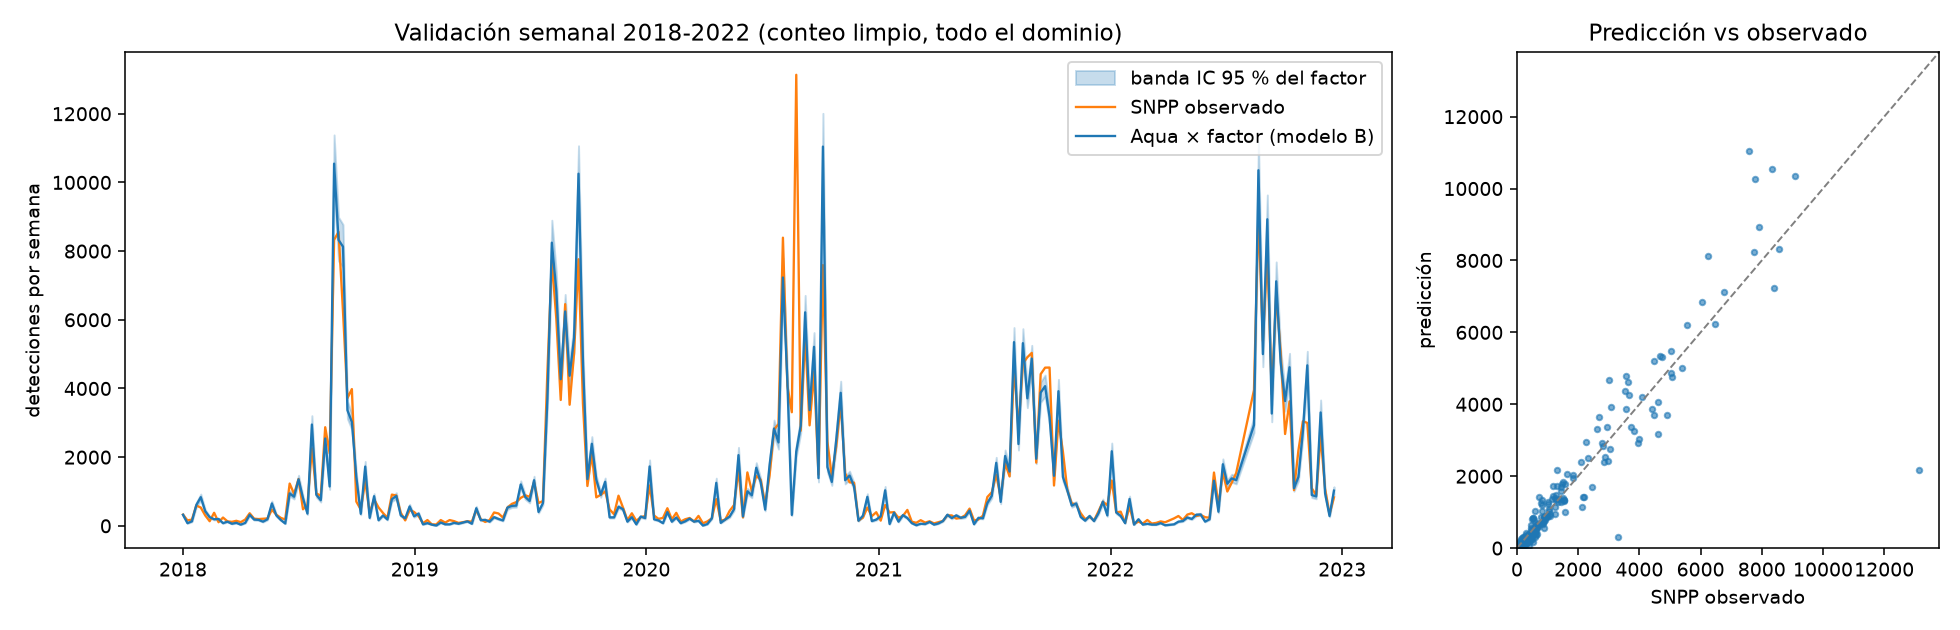
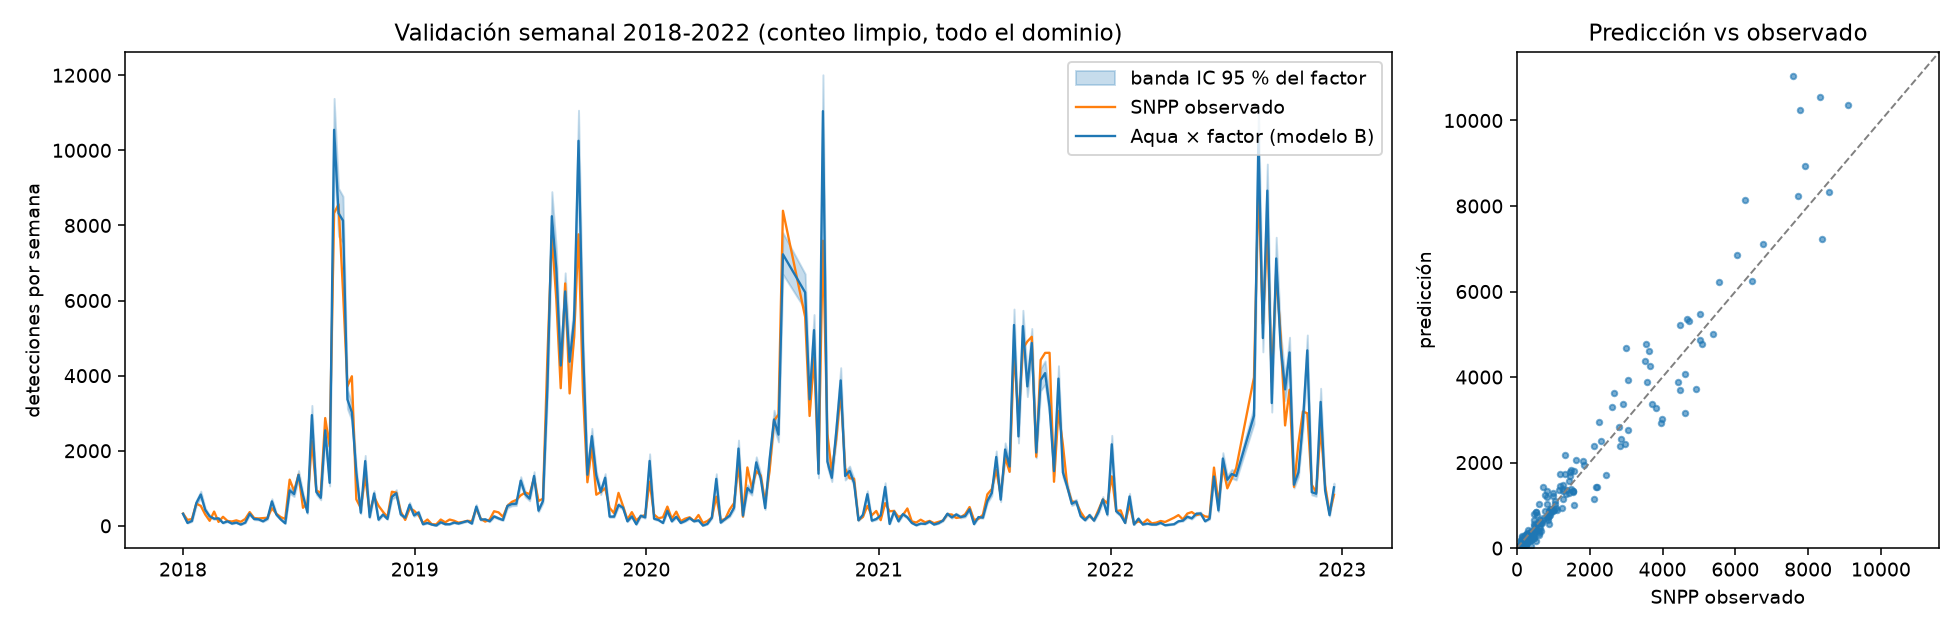
adding documentation

diff --git a/src/calibration.py b/src/calibration.py
@@ -18,6 +18,8 @@ El efecto fijo de semana absorbe la actividad real de fuego de cada semana; el c
       pocos días con detecciones porque no hay fuego, y filtrarlas sesgaría la razón.
     * VIIRS con days_with_data < MIN_TARGET_DAYS. VIIRS detecta algo en Perú casi todos los días,
       así que una semana incompleta es un apagón del satélite (p. ej. S-NPP jul-ago 2022).
+    * Semanas que se solapan con un apagón documentado de cualquiera de los dos sensores
+      (columna in_outage, definida en settings.yaml -> outages; p. ej. Aqua ago-sep 2020).
     * Semanas en que ambos sensores suman 0 (no aportan información sobre la razón).
 """
 
@@ -58,6 +60,10 @@ def paired_weeks(df_weekly: pd.DataFrame, years: list[int], metric: str,
     d = df_weekly[df_weekly["sensor"].isin([ref, target]) & df_weekly["iso_year"].isin(years)]
     min_days = d["sensor"].map({ref: 1, target: MIN_TARGET_DAYS})
     d = d[d["days_with_data"] >= min_days]
+    if "in_outage" in d.columns:
+        # Una semana con apagón documentado de cualquiera de los dos sensores se descarta entera.
+        bad_weeks = d.loc[d["in_outage"], "week"].unique()
+        d = d[~d["week"].isin(bad_weeks)]
     wide = d.pivot_table(index=["week", "iso_year", "month", "season"], columns="sensor",
                          values=metric, aggfunc="sum").dropna(subset=[ref, target])
     wide = wide.reset_index()

diff --git a/src/aggregate.py b/src/aggregate.py
@@ -11,7 +11,7 @@ from pathlib import Path
 
 import pandas as pd
 
-from config import SEASONS
+from config import OUTAGES, SEASONS
 from io_firms import load
 
 METRICS = ["count", "count_with_low", "total_frp", "total_frp_with_low"]
@@ -126,6 +126,16 @@ def _add_calendar(df: pd.DataFrame) -> pd.DataFrame:
     return df
 
 
+def _in_outage(df: pd.DataFrame) -> pd.Series:
+    """True si la semana (lunes-domingo) se solapa con un apagón documentado del sensor (OUTAGES)."""
+    flag = pd.Series(False, index=df.index)
+    week_end = df["week"] + pd.Timedelta(days=6)
+    for sensor, (start, end) in OUTAGES.items():
+        overlap = (df["week"] <= pd.Timestamp(end)) & (week_end >= pd.Timestamp(start))
+        flag |= df["sensor"].eq(sensor) & overlap
+    return flag
+
+
 def _sensor_weeks(d: pd.DataFrame) -> pd.DataFrame:
     """
     Semanas en que cada sensor está operativo (de su primera a su última semana con datos)
@@ -190,5 +200,6 @@ def aggregate_weekly(df_daily: pd.DataFrame, level: str = "national") -> pd.Data
         cols = ["week", "cell", "lat_c", "lon_c", "sensor", "family"]
 
     out = _add_calendar(out)
+    out["in_outage"] = _in_outage(out)
     order = cols + [c for c in out.columns if c not in cols]
     return out[order].sort_values(cols).reset_index(drop=True)

diff --git a/src/config.py b/src/config.py
@@ -57,6 +57,12 @@ SEASONS = _raw_settings.get("seasons", {
     "baja": [12, 1, 2, 3, 4, 5],
 })
 
+# Apagones documentados: sensor -> (inicio, fin) inclusivos, como texto AAAA-MM-DD
+OUTAGES = {
+    sensor: (str(span[0]), str(span[-1]))
+    for sensor, span in (_raw_settings.get("outages") or {}).items()
+}
+
 # Bounding Box Perú
 PERU_BBOX = _raw_settings.get("bbox", dict(lat_min=-18.5, lat_max=0.1, lon_min=-81.5, lon_max=-68.5))
 

diff --git a/CLAUDE.md b/CLAUDE.md
@@ -44,7 +44,7 @@ Se ejecutan **desde la raíz**: `python src/cli.py <comando>`. Los módulos de `
 |---|---|---|
 | `audit [--years ...] [--all-years]` | Implementado | `output/reports/audit_*.csv`, `audit_*.png` (**versionados en git**: correrlo modifica archivos rastreados) |
 | `build [--years ...] [--all-years]` | Implementado | `output/interim/daily_cell_sensor`, `weekly_sensor`, `weekly_cell_sensor` (.parquet), `build_summary.csv` |
-| `calibrate` | Implementado (lee `output/interim/weekly_sensor`) | `output/processed/calibration_factors.csv`, `validation_*.csv`, `harmonization_factors.csv` (factor final), `calibration_summary.json`; `output/reports/calibration_validation.png` |
+| `calibrate` | Implementado (lee `output/interim/weekly_sensor`) | `output/processed/calibration_factors.csv`, `validation_metrics.csv`, `validation_monthly.csv`, `validation_noaa20_snpp.csv`, `harmonization_factors.csv` (factor final), `calibration_summary.json`; `output/reports/calibration_validation.png` |
 | `harmonize`, `climatology`, `export` | Vacíos (lanzan `NotImplementedError`) | — |
 
 Sin `--years` ni `--all-years`, ambos comandos usan `years.min`–`years.max` de `config/settings.yaml` (2012–2017). Para que los pasos posteriores tengan 2002–2024, ejecuta `build --all-years` (tarda ~1 min con los 43 archivos).
@@ -72,7 +72,7 @@ dataset/*.csv
   - `count` y `total_frp` excluyen la confianza baja; las variantes `*_with_low` la incluyen.
   - `cell` es `"{lat_c:.3f}_{lon_c:.3f}"`, con el centro de la celda.
   - `sensor` ∈ {Aqua, Terra, SNPP, NOAA20, NOAA21}; `family` ∈ {MODIS, VIIRS}.
-- **weekly_sensor** (semana × sensor, todo Perú): las métricas anteriores más `active_cells`, `days_with_data`, `week` (lunes), `iso_year`, `iso_week`, `month` y `season`.
+- **weekly_sensor** (semana × sensor, todo Perú): las métricas anteriores más `active_cells`, `days_with_data`, `week` (lunes), `iso_year`, `iso_week`, `month`, `season` e `in_outage` (True si la semana se solapa con un apagón de `settings.yaml` → `outages`).
 - **weekly_cell_sensor** (semana × celda × sensor): igual, pero con `active_days` en lugar de `active_cells`.
 - Reglas de las tablas semanales:
   - Usan la semana ISO en hora local. El `month` es el del jueves de la semana. Filtra las ventanas con `iso_year`.
@@ -89,20 +89,32 @@ dataset/*.csv
 6. En la serie única, marca 2002–2011 como "estimado" y 2012 en adelante como "VIIRS real".
 
 ## Estado actual y pendientes
-- Hecho: ingesta, limpieza, auditoría, agregación diaria y semanal, y calibración GLM (detalles en las decisiones 7–11 de `docs/decisiones.md`).
-- Resultado de la calibración (conteos, tabla nacional): el modelo elegido es **B (por temporada)**. Factores finales 2012–2022: alta ≈ 5.15, media ≈ 6.69, baja ≈ 8.84. FRP: 1.84 / 2.23 / 2.92. Validación 2018–2022: error total −1.3 %, corr 0.91, MAE relativo 22 %. 2020 es el peor año: los picos de agosto que Aqua detecta mal son un límite del sensor, no un error de datos.
-- `calibration.paired_weeks` excluye las semanas con Aqua sin datos o con VIIRS < `MIN_TARGET_DAYS` (6) días. Los apagones de S-NPP (jul–ago 2022, jul 2024) caen ahí; en el futuro se podrían rellenar con NOAA-20.
+- Hecho: ingesta, limpieza, auditoría, agregación diaria y semanal, y calibración GLM (detalles en las decisiones 7–12 de `docs/decisiones.md`).
+- Parámetros de `calibration.py`: referencia `Aqua`, objetivo `SNPP`; Poisson para conteos y Tweedie (var_power 1.5) para FRP; errores agrupados por semana; `MIN_TARGET_DAYS = 6`; `MIN_IMPROVEMENT_PCT = 5.0`. NOAA-20 no entra al GLM: solo se usa como control (`validation_noaa20_snpp.csv`).
+- Resultado de la calibración (conteos, tabla nacional): el modelo elegido es **B (por temporada)**. Factores finales 2012–2022: alta ≈ 4.98, media ≈ 6.69, baja ≈ 8.84. FRP: 1.78 / 2.23 / 2.92. Validación 2018–2022: error total +2.7 %, corr 0.98, MAE relativo 20 %. En FRP el modelo sobreestima ~+11 % en validación (menos fiable que los conteos). Excluir el apagón de Aqua subió la correlación de 2020 de 0.74 a 0.97.
+- `calibration.paired_weeks` excluye:
+  - las semanas con `in_outage`, que vienen de apagones documentados en `settings.yaml` → `outages`: Aqua del 16-ago al 2-sep-2020 (falla del FMU) y S-NPP del 27-jul al 10-ago-2022;
+  - las semanas con Aqua sin datos;
+  - las semanas con VIIRS < `MIN_TARGET_DAYS` (6) días.
+- **Fuentes**: guías de usuario NASA que nos pasó el usuario: MODIS C6 Active Fire rev. B/C y VIIRS C2 Burned Area v1.1. Puntos relevantes:
+  - Confianza MODIS: <30 baja, 30–79 nominal, ≥80 alta (coincide con `cleaning.py`).
+  - `type`: 0 vegetación, 1 volcán, 2 fuente estática, 3 offshore.
+  - Las series de MODIS con intervalos < ~8 días tienen sesgo de muestreo (por eso trabajamos por semana).
+  - Los datos NRT no sirven para series largas. Los CSV descargados son todos estándar, no NRT.
+- **Versiones mezcladas de MODIS en FIRMS** (decisión 12): `6.2` en 2002–2017, `6.03` en 2018–2022 y `61.03` en 2023–24. El tipado de fuentes estáticas mejora desde 2018, así que antes de 2018 hay ~1–2 % de fuentes estáticas contadas como vegetación. Pendiente: aplicar una máscara de ubicaciones estáticas a todos los años.
+- **S-NPP dejó de entregar datos el 2-nov-2026 a las 15:40 UTC** (blog Earthdata/LANCE, nov-2026). La serie VIIRS "real" debe continuar con NOAA-20 (y NOAA-21). NOAA-20/S-NPP ≈ 1.00 (0.92–1.05 por año) en 2018–2024, lo que respalda el empalme.
 - Referencias (2012–2017, Perú, conteos limpios):
   - S-NPP/Aqua ≈ 5.1–6.4 por año (≈ 5.76 en el agregado semanal).
   - Terra/Aqua ≈ 0.18–0.27.
   - Aqua y S-NPP pasan a ~13:30 todos los años; Terra a ~10:30.
 - Pendiente, en orden:
-  1. `harmonize.apply_harmonization`: Aqua 2002–2011 × factor de temporada a partir de `harmonization_factors.csv`, con bandas IC, más VIIRS real desde 2012.
-  2. `climatology` (mediana y percentiles por semana del año, anomalías).
-  3. `export_web` (JSON/CSV para el frontend).
-  4. Conectar los comandos en `cli.py`.
+  1. Máscara de fuentes estáticas en `cleaning.py`: excluir en todos los años las ubicaciones marcadas alguna vez como `type` 1 o 2 (por cualquier sensor). Después, volver a correr `build --all-years` y `calibrate`, y actualizar la decisión 12.
+  2. `harmonize.apply_harmonization`: Aqua 2002–2011 × factor de temporada a partir de `harmonization_factors.csv`, con bandas IC, más VIIRS real desde 2012 (S-NPP, rellenando sus huecos y el período posterior al 2-nov-2026 con NOAA-20). Incluir una columna `fuente` ∈ {estimado, S-NPP, NOAA-20}.
+  3. `climatology` (mediana y percentiles por semana del año, anomalías).
+  4. `export_web` (JSON/CSV para el frontend).
+  5. Conectar los comandos en `cli.py`.
 - Sin definir todavía: la variable **zona** del modelo C (p. ej., Andes/Amazonía) y el **recorte del AOI de Cusco**.
-- Los datos de 2025 ya están en el archivo de FIRMS, pero aún no se descargaron (lo descargado llega hasta 2024). El explainer menciona que S-NPP termina el 2-nov-2026; está por verificar.
+- Los datos de 2025 ya están en el archivo de FIRMS, pero aún no se descargaron (lo descargado llega hasta 2024). S-NPP terminó el 2-nov-2026 (verificado).
 
 ## Equipo y convenciones de git
 - Hay 5 personas, cada una dueña de un grupo de módulos (ver la sección 5 del README) para evitar conflictos de git. Mantén las firmas de las funciones stub, porque son los contratos entre integrantes.

diff --git a/docs/decisiones.md b/docs/decisiones.md
@@ -37,8 +37,11 @@ Este documento reúne las decisiones clave adoptadas para el diseño del pipelin
 - **Fundamento**: En 2002–2024, ago–sep concentran ~60–65 % de las detecciones y jul–oct ~85 %, con perfiles casi idénticos en Aqua, S-NPP y NOAA-20.
 
 ## 9. Filtro de Semanas para la Calibración
-- **Decisión**: Se excluyen semanas en que Aqua no tiene observaciones (`days_with_data == 0`) o en que VIIRS tiene menos de 6 días con datos (`MIN_TARGET_DAYS`).
-- **Fundamento**: VIIRS detecta algún fuego en Perú casi todos los días, así que una semana incompleta es un apagón del satélite (p. ej. S-NPP, fines de julio a mediados de agosto de 2022, cuando NOAA-20 siguió observando). Para Aqua no se exige más porque, en temporada baja, tener pocos días con detecciones refleja ausencia de fuego; filtrar esas semanas sesgaría la razón. La baja detección de Aqua en semanas pico (p. ej. agosto de 2020) se conserva: es un límite real del sensor (huecos entre barridos de MODIS en el trópico, humo), no un error de datos.
+- **Decisión**: Se excluyen (a) las semanas que se solapan con un apagón documentado por NASA (`settings.yaml` → `outages`, columna `in_outage`), (b) las semanas en que Aqua no tiene observaciones (`days_with_data == 0`) y (c) las semanas en que VIIRS tiene menos de 6 días con datos (`MIN_TARGET_DAYS`).
+- **Apagones documentados**:
+  - **Aqua, del 16 de agosto al 2 de septiembre de 2020.** Falló la unidad FMU del satélite y solo hubo cobertura parcial por *Direct Broadcast* (MODIS C6 Active Fire User's Guide, rev. C, sec. 7.2.4). Esto explica el desajuste de agosto de 2020: Aqua detectaba decenas de focos por día mientras S-NPP detectaba miles. Al excluir esas semanas, la correlación de 2020 sube de 0.74 a 0.97.
+  - **S-NPP, del 27 de julio al 10 de agosto de 2022** (VIIRS C2 Burned Area User's Guide v1.1, sec. 8.2).
+- **Fundamento**: VIIRS detecta algún fuego en Perú casi todos los días, así que una semana incompleta es un apagón. A Aqua no se le exigen más días porque, en temporada baja, tener pocos días con detecciones refleja ausencia de fuego. Para apagones no documentados se mantienen los filtros por `days_with_data`.
 
 ## 10. GLM con Efecto Fijo de Semana y Errores Agrupados
 - **Decisión**: `y ~ C(week_id) + viirs` (A) y `y ~ C(week_id) + viirs:C(season)` (B) sobre la tabla semanal nacional. Conteos con Poisson y FRP total con Tweedie (p = 1.5, enlace log). Errores estándar agrupados por semana. El factor es exp(β) con IC 95 %.
@@ -46,5 +49,12 @@ Este documento reúne las decisiones clave adoptadas para el diseño del pipelin
 
 ## 11. Selección del Modelo y Reajuste Final
 - **Decisión**: Se elige el modelo más simple salvo que uno más complejo reduzca el MAE semanal de validación (2018–2022) en más de 5 %. El modelo elegido se reajusta con 2012–2022 (`windows.final`).
-- **Fundamento**: El modelo B (por temporada) reduce el MAE de conteos de 369 a 314 (−15 %) y el error total del FRP de +15 % a +6 %. La razón VIIRS/Aqua es mayor en temporada baja (~8.8) que en temporada alta (~5.1), porque en temporada baja hay más focos pequeños que MODIS (1 km) no detecta. La ventana final termina en 2022 porque Aqua deriva de su órbita desde 2023 (hora de paso mediana de 13:51 en 2023 y 14:16 en 2024, frente a ~13:35 antes).
-- **Advertencia**: La banda IC 95 % del factor refleja la incertidumbre del factor, no el error de predicción semanal (cubre ~19 % de las semanas observadas). El año 2020 es el peor (corr. 0.74; error −12 %).
+- **Fundamento**: Tras excluir los apagones, en validación el modelo B reduce el MAE semanal de conteos de 316 a 262 (−17 %); el error total es +2.7 % y la correlación 0.98. La razón VIIRS/Aqua es mayor en temporada baja (~8.8) que en alta (~5.0), porque en temporada baja hay más focos pequeños que MODIS (1 km) no detecta. La ventana final termina en 2022 porque Aqua deriva de su órbita desde 2023 (hora de paso mediana de 13:51 en 2023 y 14:16 en 2024, frente a ~13:35 antes).
+- **Advertencias**:
+  - La banda IC 95 % refleja la incertidumbre del factor, no el error semanal: cubre ~18 % de las semanas observadas.
+  - El factor de FRP sobreestima en validación (+11 % en total), así que hay que presentarlo con cautela.
+
+## 12. Inconsistencia de `type` entre Versiones de MODIS (pendiente de corregir)
+- **Hallazgo**: Los CSV de FIRMS mezclan versiones de MODIS: `6.2` en 2002–2017, `6.03` en 2018–2022 y `61.03` (Colección 6.1) en 2023–2024. Desde la versión 03, el tipado de fuentes estáticas mejoró (MODIS C6 Fire User's Guide rev. C, sec. 5.5.2 y 7.2.3). Aqua marca `type=2/1` en ~1.8–2.3 % de sus focos desde 2018, pero en <0.5 % antes. VIIRS (versión 2) es consistente en todos los años (~2–3 %).
+- **Impacto**: Antes de 2018, ~1–1.5 % de las detecciones de Aqua con `type=0` están en ubicaciones que después se clasifican como estáticas: industria, volcanes, zonas urbanas. Esto infla levemente a Aqua en la calibración (2012–2017) frente a la validación (2018–2022), sesgando el factor ~1–2 % a la baja. Además deja puntos "eternos" en la climatología 2002–2011.
+- **Propuesta**: Construir una máscara de ubicaciones estáticas con todas las detecciones `type ∈ {1, 2}` de cualquier sensor y año, y excluirlas de todos los años en `cleaning.py`.
